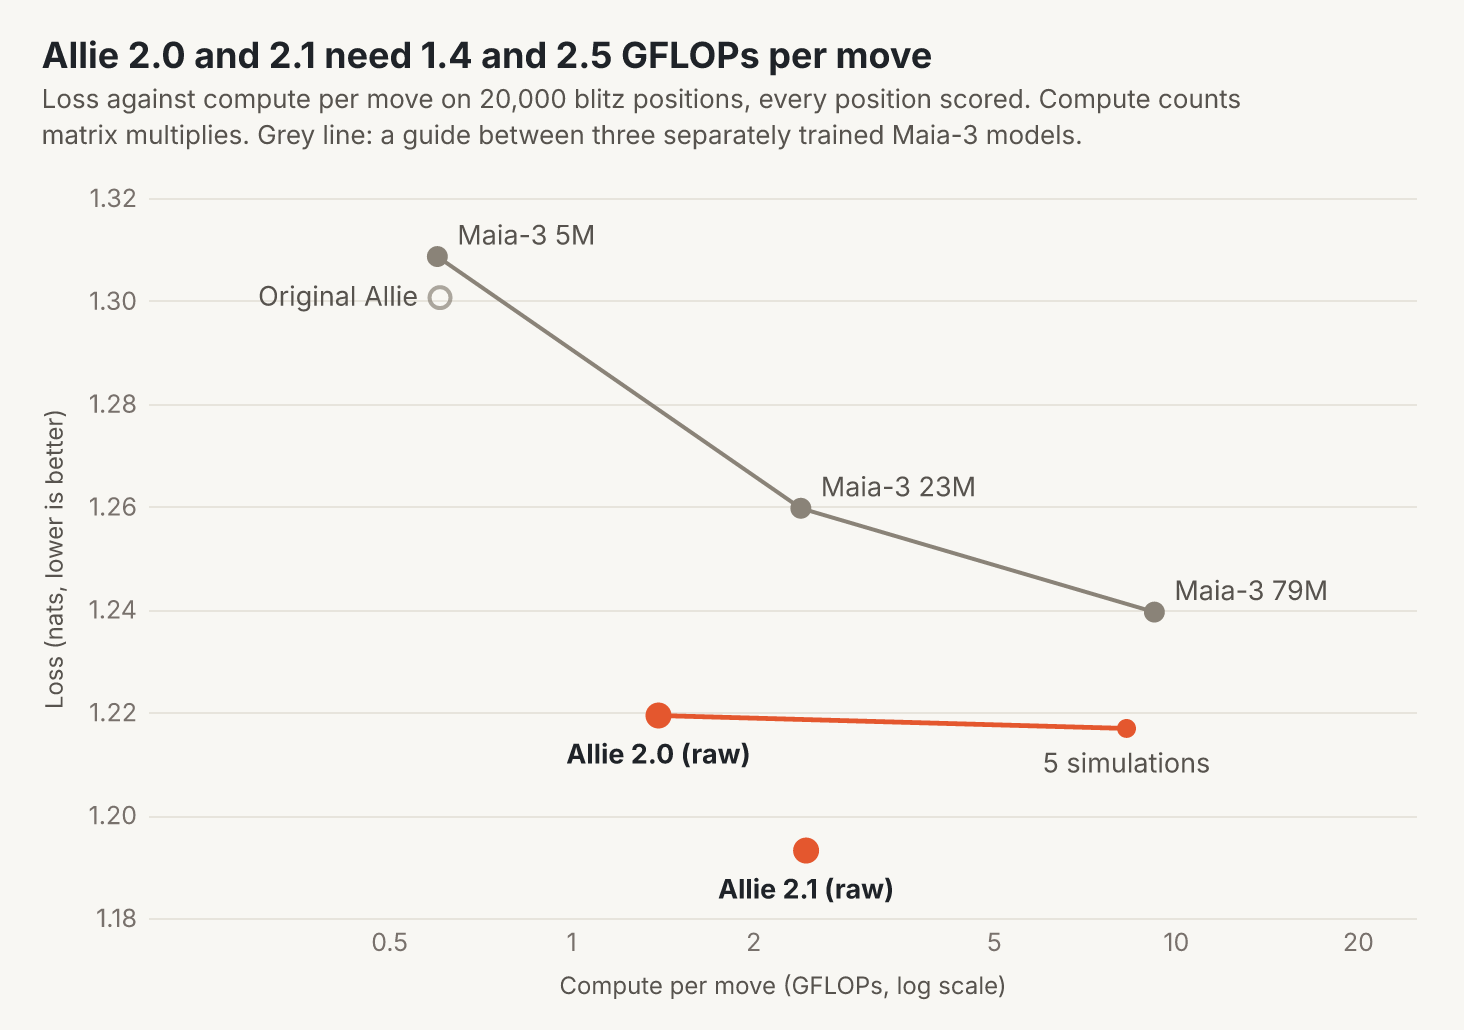
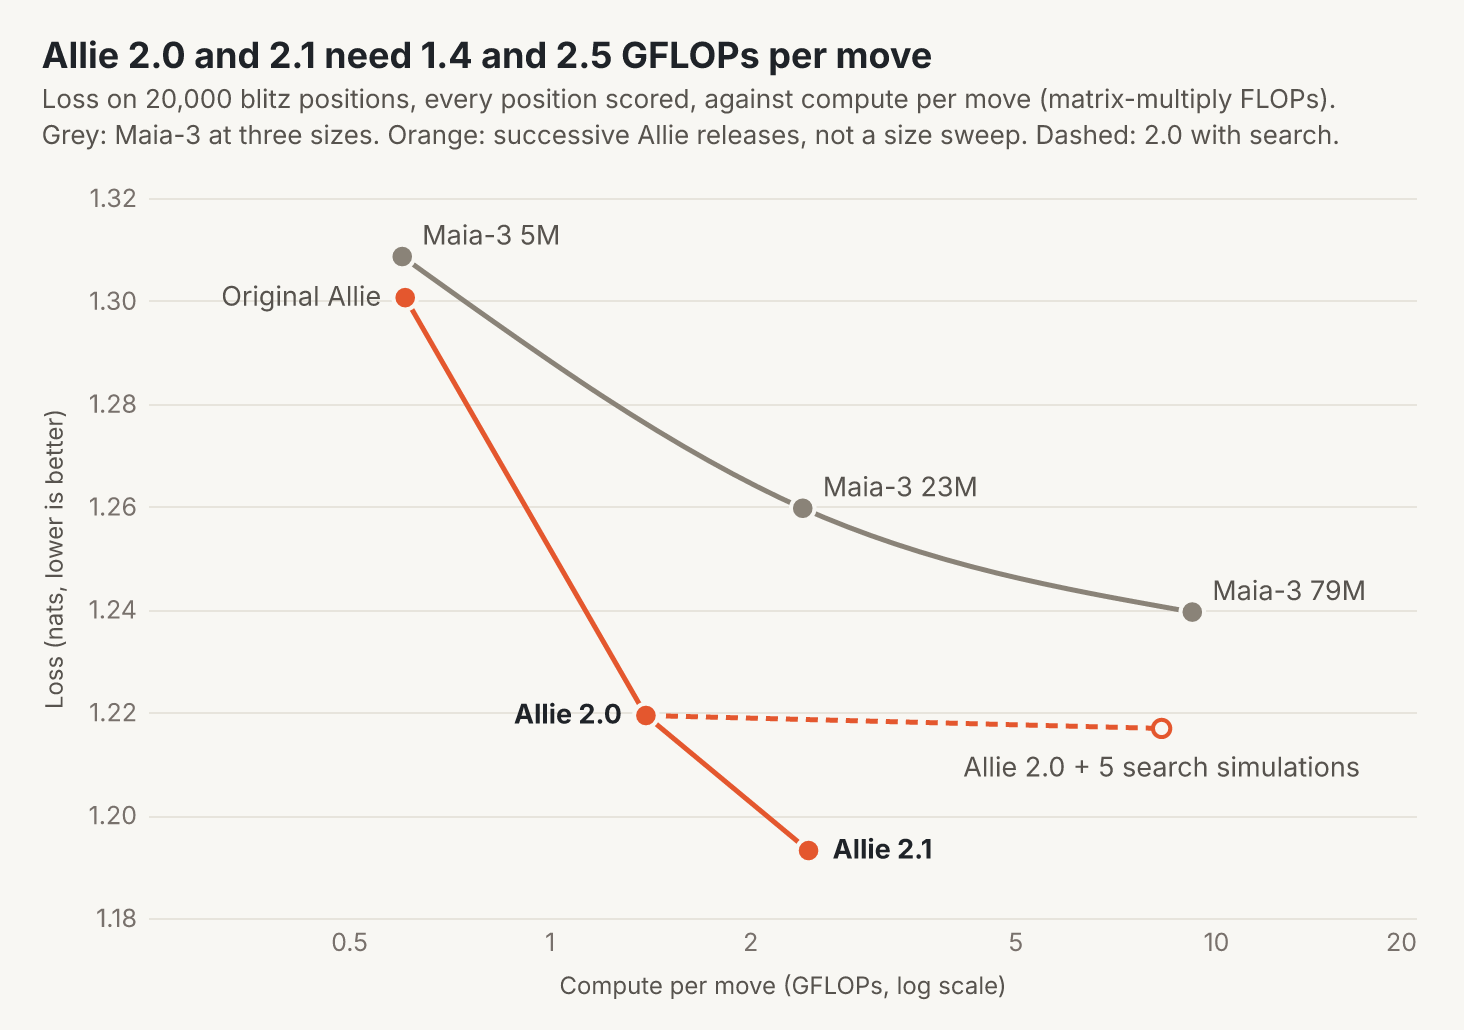
docs: pareto figure as frontier lines (maia-3 sizes as a smooth grey curve, the allie releases original -> 2.0 -> 2.1 as an orange line, 2.0 + 5 search simulations as a dashed branch), non-colliding labels, one stroke width; subtitle says what each line is; readme caption notes the 20,000-position s
Claude-Session: https://claude.ai/code/session_018xmYCGmjSdX1zRhfrE8fLj

diff --git a/docs/make_figures.py b/docs/make_figures.py
@@ -581,54 +581,58 @@ def search_index(n):
 
 
 def pareto():
-    """Legal-move CE against GFLOPs per move, on the 20,000 benchmark positions that search ran on."""
+    """Legal-move CE against GFLOPs per move, on the 20,000 benchmark positions that search ran on: Maia-3's sizes
+    as a smooth guide, the Allie releases as straight segments, and Allie 2.0's 5-simulation search as a dashed
+    branch."""
     rep = jload(SEARCH / "report-ann2.json")
-    p = rep["points"]
+    p, idx = rep["points"], search_index(rep["n"])
     pts = [dict(fam="maia", g=p[f"maia/{m}"]["gflops"], v=p[f"maia/{m}"]["ce"], t=name) for m, name in MAIA.items()]
-    for k, t in (("frozen/legal", "Allie 2.0 (raw)"), ("devcal/5", "5 simulations")):
-        pts.append(dict(fam="allie", g=p[k]["gflops"], v=p[k]["ce"], t=t))
+    ce = previous("allie1-medium", "bench")
+    if ce is not None:
+        pts.append(dict(fam="allie", g=gflops("allie1-medium"), v=float(ce[idx].mean()), t="Original Allie"))
     sys.path[:0] = [str(ROOT / "src")]
     from allie.eval.maia3.report import RELEASES
 
     with np.load(V21_BENCH) as z:
-        pts.append(dict(fam="allie21", g=RELEASES[V21][2], v=float(z["ce_legal"][search_index(rep["n"])].mean()),
-                        t="Allie 2.1 (raw)"))  # fmt: skip
-    ce = previous("allie1-medium", "bench")
-    if ce is not None:
-        pts.append(
-            dict(
-                fam="orig",
-                g=gflops("allie1-medium"),
-                v=float(ce[search_index(rep["n"])].mean()),
-                t="Original Allie",
-            )
-        )
-    x = alt.X("g:Q", scale=alt.Scale(type="log", domain=[0.2, 25], nice=False), title="Compute per move (GFLOPs, log scale)",
+        v21 = float(z["ce_legal"][idx].mean())
+    raw, srch = p["frozen/legal"], p["devcal/5"]
+    pts += [
+        dict(fam="allie", g=raw["gflops"], v=raw["ce"], t="Allie 2.0"),
+        dict(fam="allie", g=RELEASES[V21][2], v=v21, t="Allie 2.1"),
+        dict(fam="search", g=srch["gflops"], v=srch["ce"], t="Allie 2.0 + 5 search simulations"),
+    ]
+    x = alt.X("g:Q", scale=alt.Scale(type="log", domain=[0.25, 20], nice=False), title="Compute per move (GFLOPs, log scale)",
               axis=alt.Axis(values=[0.5, 1, 2, 5, 10, 20], grid=False, format="~g"))  # fmt: skip
     y = alt.Y("v:Q", scale=alt.Scale(domain=[1.18, 1.32], nice=False, zero=False), title="Loss (nats, lower is better)",
               axis=alt.Axis(values=[1.18, 1.20, 1.22, 1.24, 1.26, 1.28, 1.30, 1.32], grid=True, format=".2f"))  # fmt: skip
     b = values(pts)
-    maia, allie, allie21, orig = (b.transform_filter(alt.datum.fam == f) for f in ("maia", "allie", "allie21", "orig"))
-    raw = alt.datum.t == "Allie 2.0 (raw)"
+    maia, allie, search = (b.transform_filter(alt.datum.fam == f) for f in ("maia", "allie", "search"))
+    branch = values([dict(g=raw["gflops"], v=raw["ce"], g2=srch["gflops"], v2=srch["ce"])])
+    dot = dict(size=140, opacity=1, stroke=PAPER, strokeWidth=2)
+
+    def tag(t, align, dx, dy, strong=False):
+        return b.transform_filter(alt.datum.t == t).mark_text(align=align, dx=dx, dy=dy, color=INK if strong else INK2,
+                                                             fontWeight=600 if strong else 400).encode(x=x, y=y, text="t:N")  # fmt: skip
+
     chart = alt.layer(
-        maia.mark_line(color=NEUTRAL_DARK, strokeWidth=2).encode(x=x, y=y),
-        maia.mark_circle(size=110, color=NEUTRAL_DARK, opacity=1).encode(x=x, y=y),
+        maia.mark_line(color=NEUTRAL_DARK, strokeWidth=2.5, interpolate="monotone").encode(x=x, y=y),
+        allie.mark_line(color=ALLIE, strokeWidth=2.5).encode(x=x, y=y),
+        branch.mark_rule(color=ALLIE, strokeWidth=2.5, strokeDash=[6, 4]).encode(x=x, y=y, x2="g2:Q", y2="v2:Q"),
+        maia.mark_circle(color=NEUTRAL_DARK, **dot).encode(x=x, y=y),
+        allie.mark_circle(color=ALLIE, **dot).encode(x=x, y=y),
+        search.mark_circle(size=75, fill=PAPER, stroke=ALLIE, strokeWidth=2, opacity=1).encode(x=x, y=y),
         maia.mark_text(align="left", dx=10, dy=-10).encode(x=x, y=y, text="t:N"),
-        orig.mark_point(size=110, color=NEUTRAL_DARK, strokeWidth=2, filled=False).encode(x=x, y=y),
-        orig.mark_text(align="right", dx=-11).encode(x=x, y=y, text="t:N"),
-        allie.mark_line(color=ALLIE, strokeWidth=2.4).encode(x=x, y=y),
-        allie.mark_circle(color=ALLIE, opacity=1).encode(x=x, y=y, size=alt.condition(raw, alt.value(170), alt.value(90))),
-        allie.transform_filter(raw).mark_text(dy=20, color=INK, fontWeight=600).encode(x=x, y=y, text="t:N"),
-        allie.transform_filter(~raw).mark_text(dy=18).encode(x=x, y=y, text="t:N"),
-        allie21.mark_circle(color=ALLIE, size=170, opacity=1).encode(x=x, y=y),
-        allie21.mark_text(dy=20, color=INK, fontWeight=600).encode(x=x, y=y, text="t:N"),
-    ).properties(width=2 * 300 + 34, height=360, title=title(
+        tag("Original Allie", "right", -12, 0),
+        tag("Allie 2.0", "right", -12, 0, True),
+        tag("Allie 2.1", "left", 12, 0, True),
+        tag("Allie 2.0 + 5 search simulations", "center", 0, 20),
+    ).properties(width=WIDTH, height=360, title=title(
         "Allie 2.0 and 2.1 need 1.4 and 2.5 GFLOPs per move",
-        "Loss against compute per move on 20,000 blitz positions, every position scored. Compute counts",
-        "matrix multiplies. Grey line: a guide between three separately trained Maia-3 models."))  # fmt: skip
+        "Loss on 20,000 blitz positions, every position scored, against compute per move (matrix-multiply FLOPs).",
+        "Grey: Maia-3 at three sizes. Orange: successive Allie releases, not a size sweep. Dashed: 2.0 with search."))  # fmt: skip
     save(chart, "pareto")
     for r in pts:
-        print(f"  {r['t']:16s} {r['g']:7.2f} GF  CE {r['v']:.4f}")
+        print(f"  {r['t']:33s} {r['g']:7.2f} GF  CE {r['v']:.4f}")
 
 
 def protocol_scores():

diff --git a/README.md b/README.md
@@ -135,9 +135,9 @@ We compare Allie 2.0 and 2.1 with the original Allie and [Maia-3](https://arxiv.
 
 Maia-3 trains only on Lichess blitz, so we compare on blitz. We use 80,000 blitz positions from July 2026, 20,000 from each of four rating bands.
 
-![Loss against compute per move for Maia-3, the original Allie, Allie 2.0 with and without search, and Allie 2.1](docs/figures/pareto.png)
+![Loss against compute per move. Allie 2.0 (1.4 GFLOPs) and Allie 2.1 (2.5) have lower loss than all three Maia-3 sizes, including Maia-3 79M at 9.2 GFLOPs. The original Allie sits near Maia-3 5M. Five search simulations take Allie 2.0 to 8.3 GFLOPs for 0.0025 lower loss.](docs/figures/pareto.png)
 
-*Orange: Allie 2.0 alone and with 5 search simulations per move, and Allie 2.1 alone. More search is in [DETAILS](docs/DETAILS.md#search).*
+*Scores are on the 20,000 positions search ran on, 5,000 per rating band, so they differ slightly from the 80,000-position numbers below. More search is in [DETAILS](docs/DETAILS.md#search).*
 
 On all 80,000 positions, Allie 2.0's loss is 1.2030 against 1.2269 for Maia-3 79M. It uses 1.39 GFLOPs per move against 9.23. Allie 2.1's loss is 1.1779, at 2.45 GFLOPs.
 

diff --git a/docs/DETAILS.md b/docs/DETAILS.md
@@ -111,7 +111,7 @@ Each search budget's output is calibrated on separate July 2026 games, which do 
 | Before the second anneal, 5 simulations | 8.30 | 1.2189 | +0.0026 [+0.0014, +0.0039] | +0.15 [−0.08, +0.37] |
 | Before the second anneal, 128 simulations | 176 | 1.2161 | +0.0055 [+0.0038, +0.0070] | +0.18 [−0.04, +0.40] |
 
-On the same positions, Maia-3 5M, 23M and 79M score 1.3086, 1.2597 and 1.2395. The original Allie scores 1.3006. 128 simulations ran only before the second anneal, so the README's plot leaves them out.
+On the same positions, Maia-3 5M, 23M and 79M score 1.3086, 1.2597 and 1.2395. The original Allie scores 1.3006, and Allie 2.1, not run with search, 1.1931. 128 simulations ran only before the second anneal, so the README's plot leaves them out.
 
 The gain comes from strong players. Before the anneal, with 128 simulations, it is −0.0001 below 1400 and +0.0014 at 1400-2000. It is +0.0062 at 2000-2400 and +0.0143 at 2400+.
 
